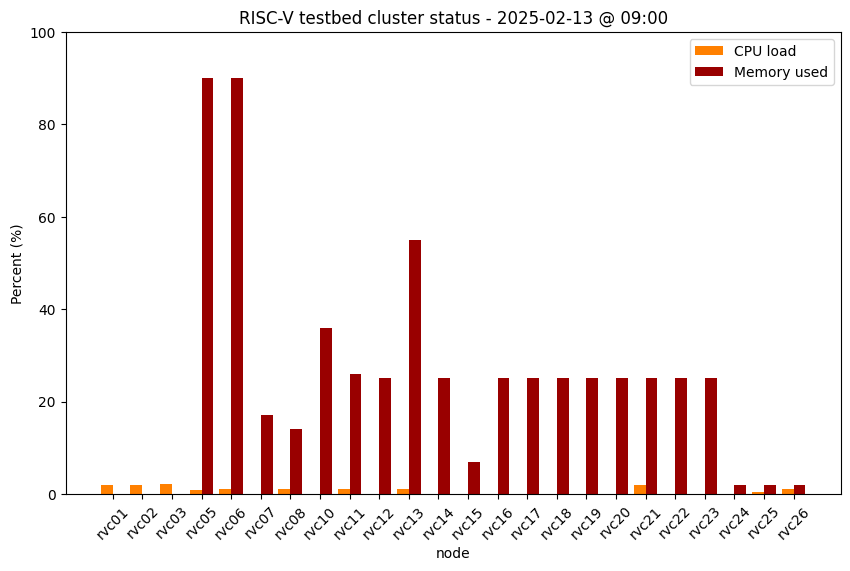
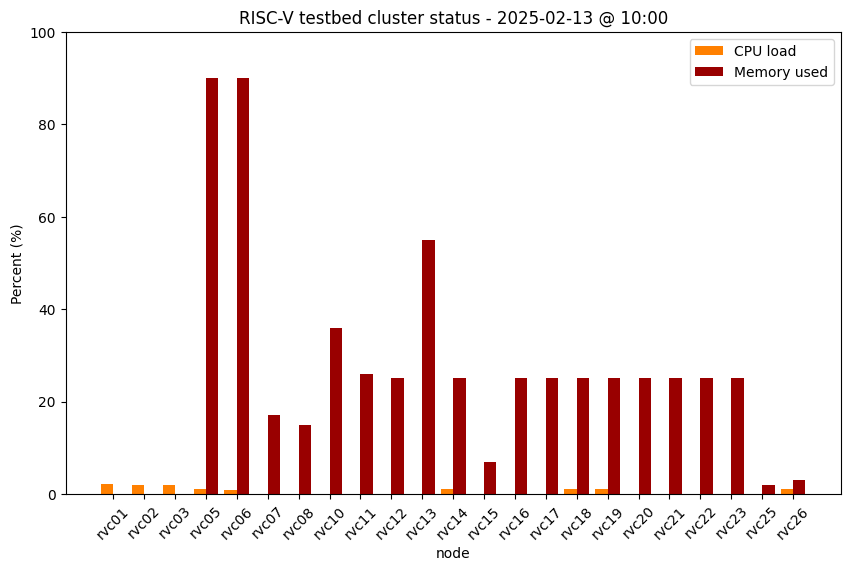
Update cluster status

Changed region(s): [[0.1529, 0.1191, 0.9482, 0.9527], [0.7341, 0.0, 0.7647, 0.0595], [0.9176, 0.8336, 0.9482, 0.8634]]

diff --git a/status.md b/status.md
@@ -36,7 +36,7 @@ permalink: /status/
 | StarFive VisionFive V2 #11 | rvc21 | 4 | 8GB | <img src="/images/on.png" alt="green light" width="10"/> up |
 | StarFive VisionFive V2 #12 | rvc22 | 4 | 8GB | <img src="/images/on.png" alt="green light" width="10"/> up |
 | StarFive VisionFive V2 #13 | rvc23 | 4 | 8GB | <img src="/images/on.png" alt="green light" width="10"/> up |
-| Milk-V Pioneer #1 | rvc24 | 64 | 128GB | <img src="/images/on.png" alt="green light" width="10"/> up |
+| Milk-V Pioneer #1 | rvc24 | 64 | 128GB | <img src="/images/off.png" alt="red light" width="10"/> down |
 | Milk-V Pioneer #2 | rvc25 | 64 | 128GB | <img src="/images/on.png" alt="green light" width="10"/> up |
 | Milk-V Pioneer #3 | rvc26 | 64 | 128GB | <img src="/images/on.png" alt="green light" width="10"/> up |
 
